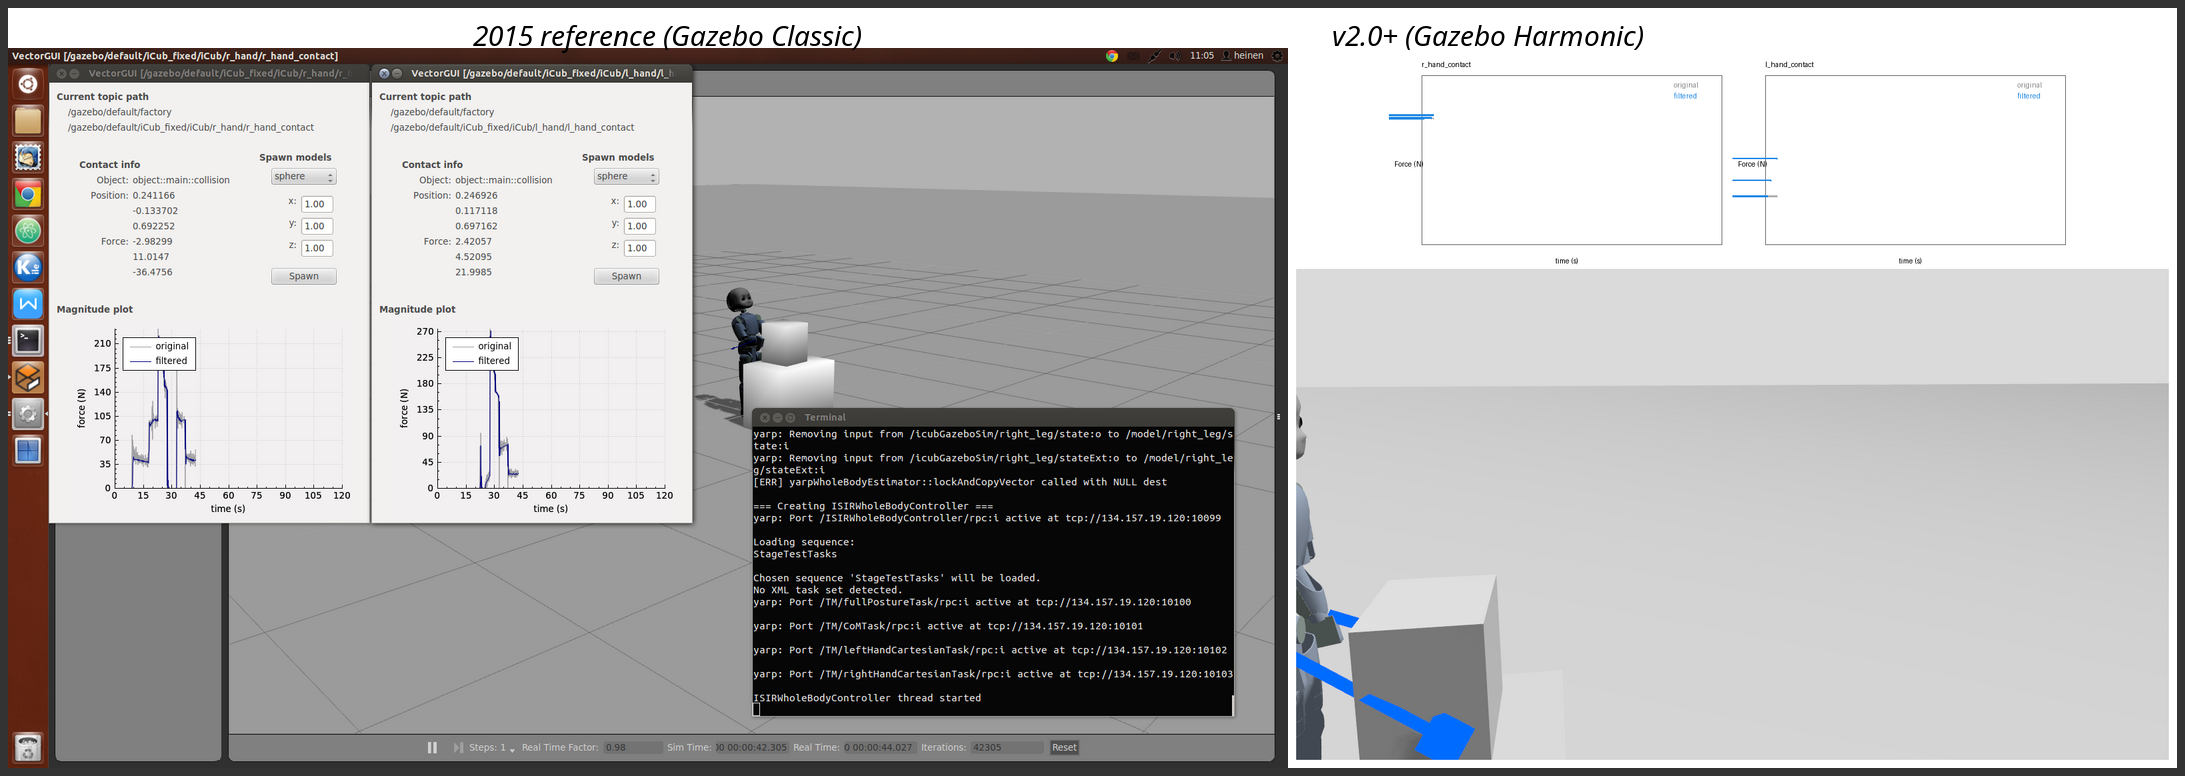
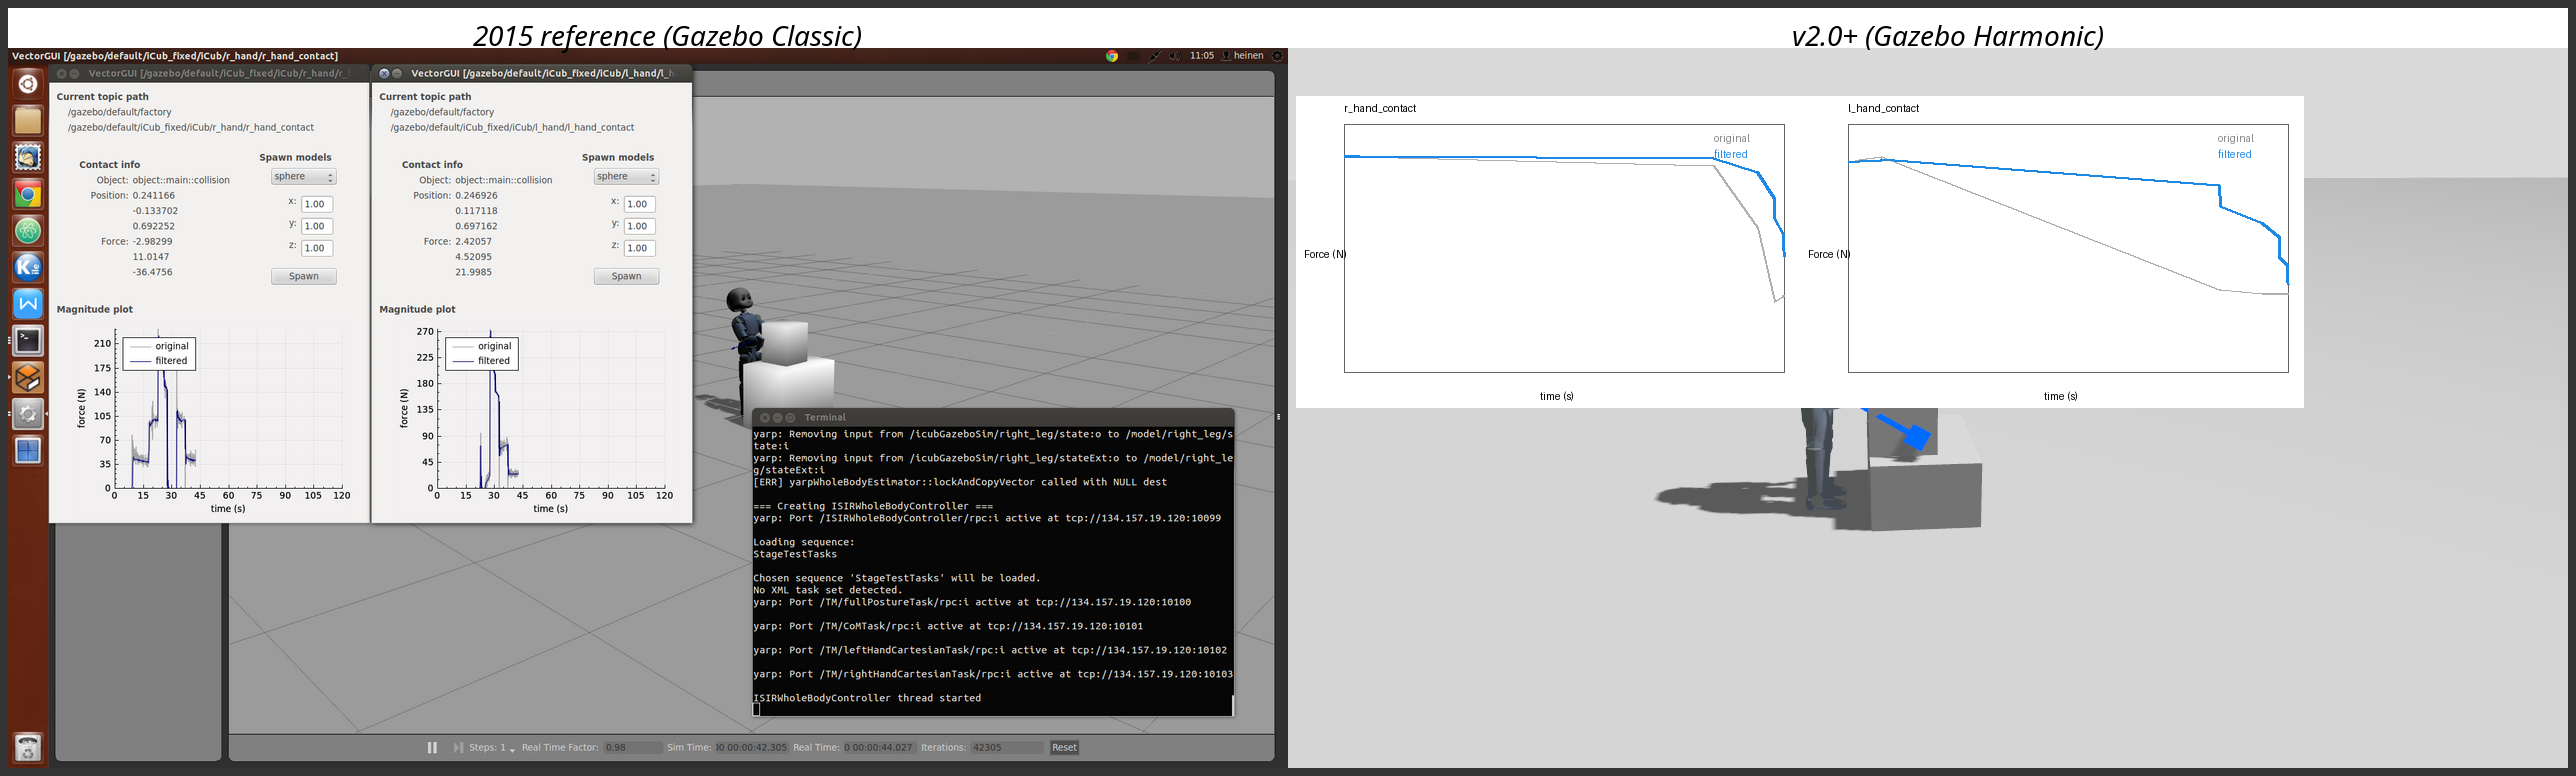
Improve comparison capture: camera framing, plots, and layout
- Pull release camera back (0.15 -3.1 1.30) with wider FOV so the full
  robot, table, and upper box are visible during the grasp hold phase.
- Overlay VectorGUI-style plots on the 3D view like the 2015 reference.
- Fix contact force plot parsing for nested wrench messages and sort samples
  by sim time so magnitude curves render correctly.
- Harden capture scripts: use pkill instead of killall, avoid transport
  teardown races in save_camera_frame, add preview_camera_frame helper.
- Regenerate docs/images/execution_comparison.png from an honest headless run.

diff --git a/scripts/preview_camera_frame.py b/scripts/preview_camera_frame.py
@@ -1,0 +1,68 @@
+#!/usr/bin/env python3
+"""Capture a camera frame at a specific sim-time offset for pose tuning."""
+
+from __future__ import annotations
+
+import argparse
+import os
+import subprocess
+import time
+from pathlib import Path
+
+
+def main() -> None:
+    parser = argparse.ArgumentParser()
+    parser.add_argument("--output", required=True)
+    parser.add_argument("--warmup", type=float, default=12.0)
+    parser.add_argument("--capture-after", type=float, default=10.0)
+    parser.add_argument("--world", default="assets/worlds/release_demo.world")
+    args = parser.parse_args()
+
+    root = Path(__file__).resolve().parents[1]
+    env = os.environ.copy()
+    env["VECTOR_VIEW"] = str(root)
+    env["GZ_SIM_SYSTEM_PLUGIN_PATH"] = f"{root / 'build'}:{env.get('GZ_SIM_SYSTEM_PLUGIN_PATH', '')}"
+    env["GZ_SIM_RESOURCE_PATH"] = f"{root / 'assets/models'}:{env.get('GZ_SIM_RESOURCE_PATH', '')}"
+    env["GZ_SIM_USER_PATH"] = f"{root / 'assets/worlds'}:{env.get('GZ_SIM_USER_PATH', '')}"
+
+    subprocess.run(["pkill", "-9", "-x", "gz"], check=False, capture_output=True)
+    time.sleep(1)
+
+    world = root / args.world
+    log = open("/tmp/gz_preview.log", "w")
+    proc = subprocess.Popen(
+        ["gz", "sim", "-s", "-r", "--headless-rendering", str(world)],
+        env={**env, "DISPLAY": ""},
+        stdout=log,
+        stderr=subprocess.STDOUT,
+    )
+    time.sleep(args.warmup)
+
+    anim = subprocess.Popen(
+        [str(root / "scripts/animate_grasp.sh")],
+        env=env,
+        stdout=subprocess.DEVNULL,
+        stderr=subprocess.DEVNULL,
+    )
+    time.sleep(args.capture_after)
+
+    out = Path(args.output)
+    out.parent.mkdir(parents=True, exist_ok=True)
+    subprocess.run(
+        ["python3", str(root / "scripts/save_camera_frame.py"), "--output", str(out), "--timeout", "15"],
+        check=True,
+        env=env,
+    )
+
+    anim.terminate()
+    try:
+        anim.wait(timeout=5)
+    except subprocess.TimeoutExpired:
+        anim.kill()
+    proc.kill()
+    subprocess.run(["pkill", "-9", "-x", "gz"], check=False, capture_output=True)
+    print(f"saved {out}")
+
+
+if __name__ == "__main__":
+    main()

diff --git a/scripts/record_force_plot.py b/scripts/record_force_plot.py
@@ -25,6 +25,11 @@ def parse_forces(text: str) -> list[tuple[float, float]]:
     samples: list[tuple[float, float]] = []
     blocks = re.split(r"\n(?=header \{)", text)
 
+    force_pattern = re.compile(
+        r"body_1_wrench\s*\{.*?force\s*\{([^}]*)\}",
+        flags=re.S,
+    )
+
     for block in blocks:
         sec_match = re.search(r"sec:\s*([0-9]+)", block)
         nsec_match = re.search(r"nsec:\s*([0-9]+)", block)
@@ -35,9 +40,7 @@ def parse_forces(text: str) -> list[tuple[float, float]]:
             current_time += float(nsec_match.group(1)) * 1e-9
 
         peak = 0.0
-        for force_block in re.findall(
-            r"body_1_wrench\s*\{[^}]*force\s*\{([^}]*)\}", block, flags=re.S
-        ):
+        for force_block in force_pattern.findall(block):
             fx = float(m.group(1)) if (m := re.search(r"x:\s*([-0-9.eE]+)", force_block)) else 0.0
             fy = float(m.group(1)) if (m := re.search(r"y:\s*([-0-9.eE]+)", force_block)) else 0.0
             fz = float(m.group(1)) if (m := re.search(r"z:\s*([-0-9.eE]+)", force_block)) else 0.0
@@ -135,6 +138,7 @@ def main() -> None:
         )
         return
 
+    samples.sort(key=lambda sample: sample[0])
     t0 = samples[0][0]
     times = [sample[0] - t0 for sample in samples]
     raw = [sample[1] for sample in samples]

diff --git a/scripts/save_camera_frame.py b/scripts/save_camera_frame.py
@@ -4,6 +4,7 @@
 from __future__ import annotations
 
 import argparse
+import os
 import time
 from pathlib import Path
 
@@ -49,6 +50,8 @@ def main() -> None:
 
     img.save(output)
     print(f"saved {output} ({frame.width}x{frame.height})")
+    # Avoid transport teardown races when gz sim is stopped concurrently.
+    os._exit(0)
 
 
 if __name__ == "__main__":